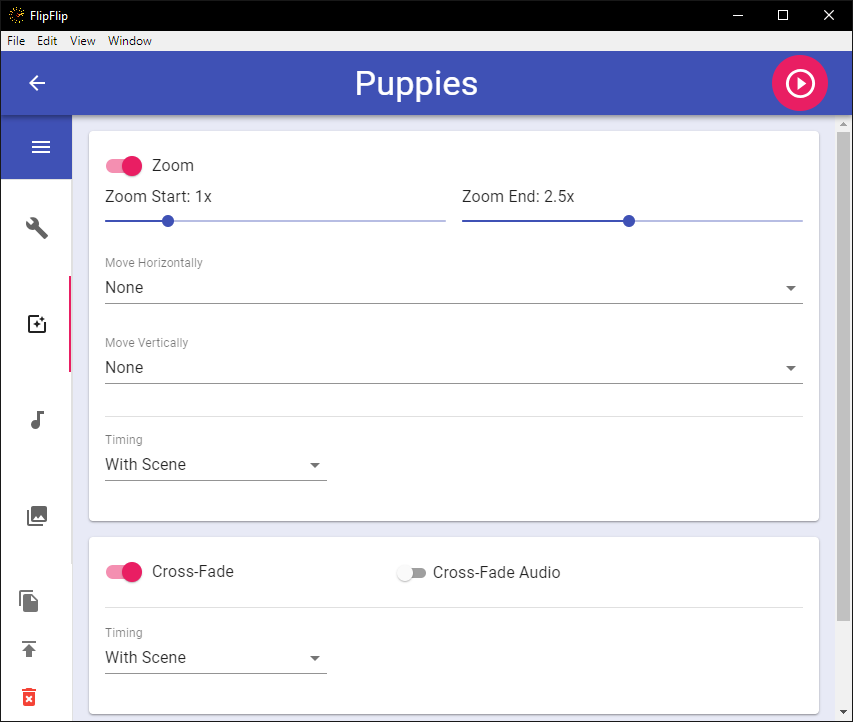
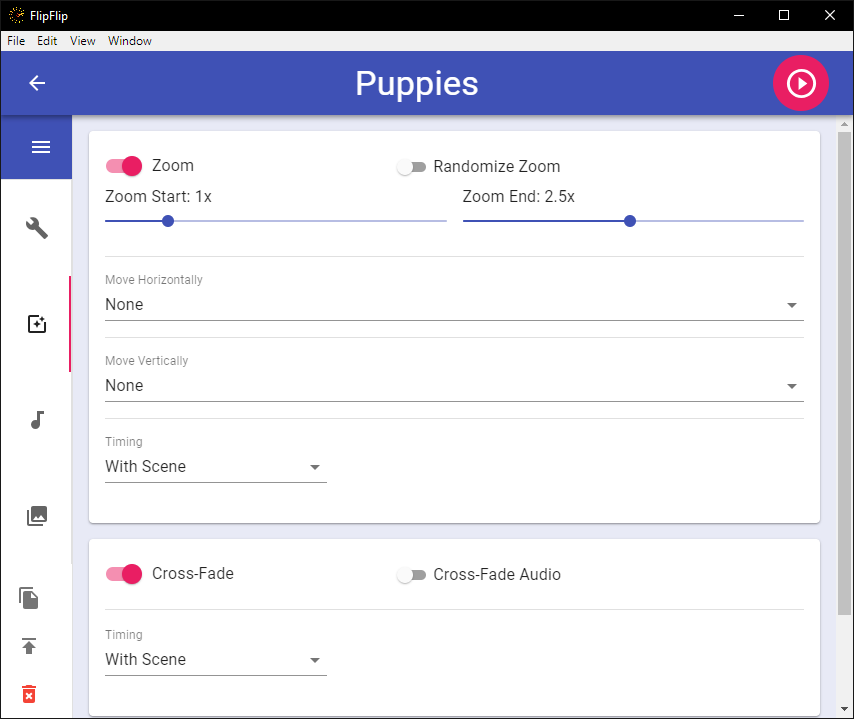
Update docs

diff --git a/docs/library.md b/docs/library.md
@@ -32,13 +32,13 @@ way after the search/filter is cleared. This may be useful for keeping track of 
 
 ![](doc_images/library_marked.png)
 
-## Mark Offline
-As your Library grows, it's possible some sources will become unavailable. To aid in detecting this, click the 
-`Mark Offline` button ( <img style="vertical-align: -5px" src="doc_icons/mark-offline.svg" alt="Mark Offline" 
-width="20" height="20"> ) to check your sources. When this process completes, unavailable sources will be marked with 
-an offline icon.
-
-![](doc_images/library_offline.png)
+## Find Mergeables
+When you have a large number of local directories, it may be helpful to find those which share the tags so that you can
+merge them together. To do this, click `Find Mergeables` ( <img style="vertical-align: -5px" 
+src="doc_icons/merge.svg" alt="Find Mergeables" width="20" height="20"> ) in the sidebar. You will then see a list of
+local sources sorted into sets. Each set shares the same tags and could each (in theory) be merged into one source.
+This, of course, is entirely up to the discretion of the user and FlipFlip does not have the ability to automatically
+merge these folders (they must be merged manually and the extra sources deleted).  
 
 ## Import Remote Sources
 The Library provides the ability to import sources from **Tumblr**, **Reddit**, **Instagram**, and **Twitter**. These
@@ -47,3 +47,11 @@ You can only run one import at a time. While a import is running, a progress bar
 
 ?> FlipFlip may become slow while importing sources, but you can feel free to navigate away from the Library. You will
 be alerted when your import has completed. 
+
+## Mark Offline
+As your Library grows, it's possible some sources will become unavailable. To aid in detecting this, click the 
+`Mark Offline` button ( <img style="vertical-align: -5px" src="doc_icons/mark-offline.svg" alt="Mark Offline" 
+width="20" height="20"> ) to check your sources. When this process completes, unavailable sources will be marked with 
+an offline icon.
+
+![](doc_images/library_offline.png)

diff --git a/docs/clips.md b/docs/clips.md
@@ -18,6 +18,11 @@ directly for more precise selection. Double click "Start" or "End" to set it to 
 
 * Click <img style="vertical-align: -5px" src="doc_icons/save.svg" alt="Save" width="20" height="20"> to save changes to 
 this clip.
+* Click <img style="vertical-align: -5px" src="doc_icons/tag.svg" alt="Tag" width="20" height="20"> to start tagging this clip.
+  * New clips will ineherit the source's current tags.
+  * Chaging a source's tags doesn't change its clips' tags.
+  * Clip tags will be used for Scene Generators which have "Use Clips" is on, otherwise source tags will be used
+    * If a clip has _no_ tags, it acts as though it has its source's tags during Scene Generation.
 * Click <img style="vertical-align: -5px" src="doc_icons/delete.svg" alt="Delete" width="20" height="20"> to remove this clip.
   * _This only appears for saved clips._
 * Click <img style="vertical-align: -5px" src="doc_icons/back.svg" alt="Cancel" width="20" height="20"> to cancel changes.
@@ -25,5 +30,5 @@ this clip.
 While Clipping use Space to play/pause and use ← → to jump back/foward in 10sec intervals. Use `[` and `]` to jump to 
 Clipping the previous/next visible video in the Library.  
 
-?> Note: If clips don't seem to be working, ensure that "Play Selected Clips" is enabled for your scene (otherwise, 
-it will play from the entire video).
+?> Note: If clips don't seem to be working, ensure that "Use Clips" is enabled for your scene (otherwise, 
+it will play from the entire video). 

diff --git a/docs/audio_text.md b/docs/audio_text.md
@@ -11,11 +11,9 @@ This card allows you to layer multiple audio tracks over your Scene. It also con
 * **Next Scene at End** - The Next Scene will play when the audio track ends.
 * **Speed** - Control the playback speed of this track.
 
-FlipFlip will check for BPM metadata of the **first audio** file, which can then be used for timing the scene or effects. 
-
-?> The BPM is taken from the ID3 metadata of the audio file. If your file(s) is missing this metadata, you can use a program 
-like [Abyssmedia BPM Counter](https://www.abyssmedia.com/bpmcounter/) to detect it for you and populate the metadata in 
-the file(s).
+FlipFlip can use the BPM of the **first audio** file for timing the scene or effects. You can either (1) enter this 
+value manually, (2) try to detect the BPM of the entered audio file, or (3) read the BPM from the ID3 metadata of the 
+entered audio file.
 
 ?> There is no limit to the number of audios you can use, but you may experience poor performance if you use too many.
 

diff --git a/docs/changelog.md b/docs/changelog.md
@@ -1,5 +1,19 @@
 # Changelog
 
+## 3.0.4 <small>(04/06/2020)</small>
+- Add ability to auto-backup
+- Allow clips to be tagged
+- Add ability to find mergeable local directories
+- Allow BPM to be detected, read, or input
+- Allow clips to be toggled on off in a scene
+- Add random option for zoom/translation
+- Allow RANDOM_PHRASE and TAG_PHRASE to work with blink
+- Add display count to Library
+- Add progress display on taskbar
+- Fix bug with clip loading
+- Fix bug with sorting/searching by count
+- Fix Twitter scraping
+
 ## 3.0.3 <small>(01/10/2020)</small>
 - Add Portable Mode (saves in same directory as FlipFlip)
 - Add ability to designate video playback speed

diff --git a/docs/effects.md b/docs/effects.md
@@ -14,9 +14,9 @@ FlipFlip effects all share the same types of timings (in ms):
 
 ## Zoom/Move
 This section controls image movement.
-* Choose zoom on/off. Control start/end scale.
-* Choose move horizontally left/right (or none). Control distance (%).
-* Choose move vertically up/down (or none). Control distance (%).
+* Choose zoom on/off. Control start/end scale and randomization.
+* Choose move horizontally left/right/either (or none). Control distance (%) and randomization.
+* Choose move vertically up/down/either (or none). Control distance (%) and randomization.
 * Control zoom/move timing options.
 
 <img src="doc_images/zoom_ex.gif" alt="Zoom Example">

diff --git a/docs/sources.md b/docs/sources.md
@@ -10,7 +10,7 @@ image/video URLs, (3) a single video file URL, (4) a single playlsit file URL, o
 * Sources can also be manually ordered by drag'n'dropping them.
 * A count of usable images/videos will appear next to each source.
   * "**+**" indicates an incomplete count (didn't reach the end, but has _at least_ that many images & videos).
-  * Video sources will display the number of clips as their count
+  * Video sources will display the number of clips as their count. You can click this count to toggle clips on/off for a scene.
   
 ## Supported filetypes
 The following filetypes are supported by FlipFlip:

diff --git a/docs/config.md b/docs/config.md
@@ -99,6 +99,9 @@ on your computer and is never shared with anyone or sent to any server (besides 
 ## Backup
 Backup your FlipFlip data or restore from a previous backup.
 
+#### Auto Backup
+Turn this on to automatically create a backup every time the number of configured days passes.
+
 #### Backup Data
 This creates a backup with all your current FlipFlip data (preferences, library, scenes, etc.)
 
